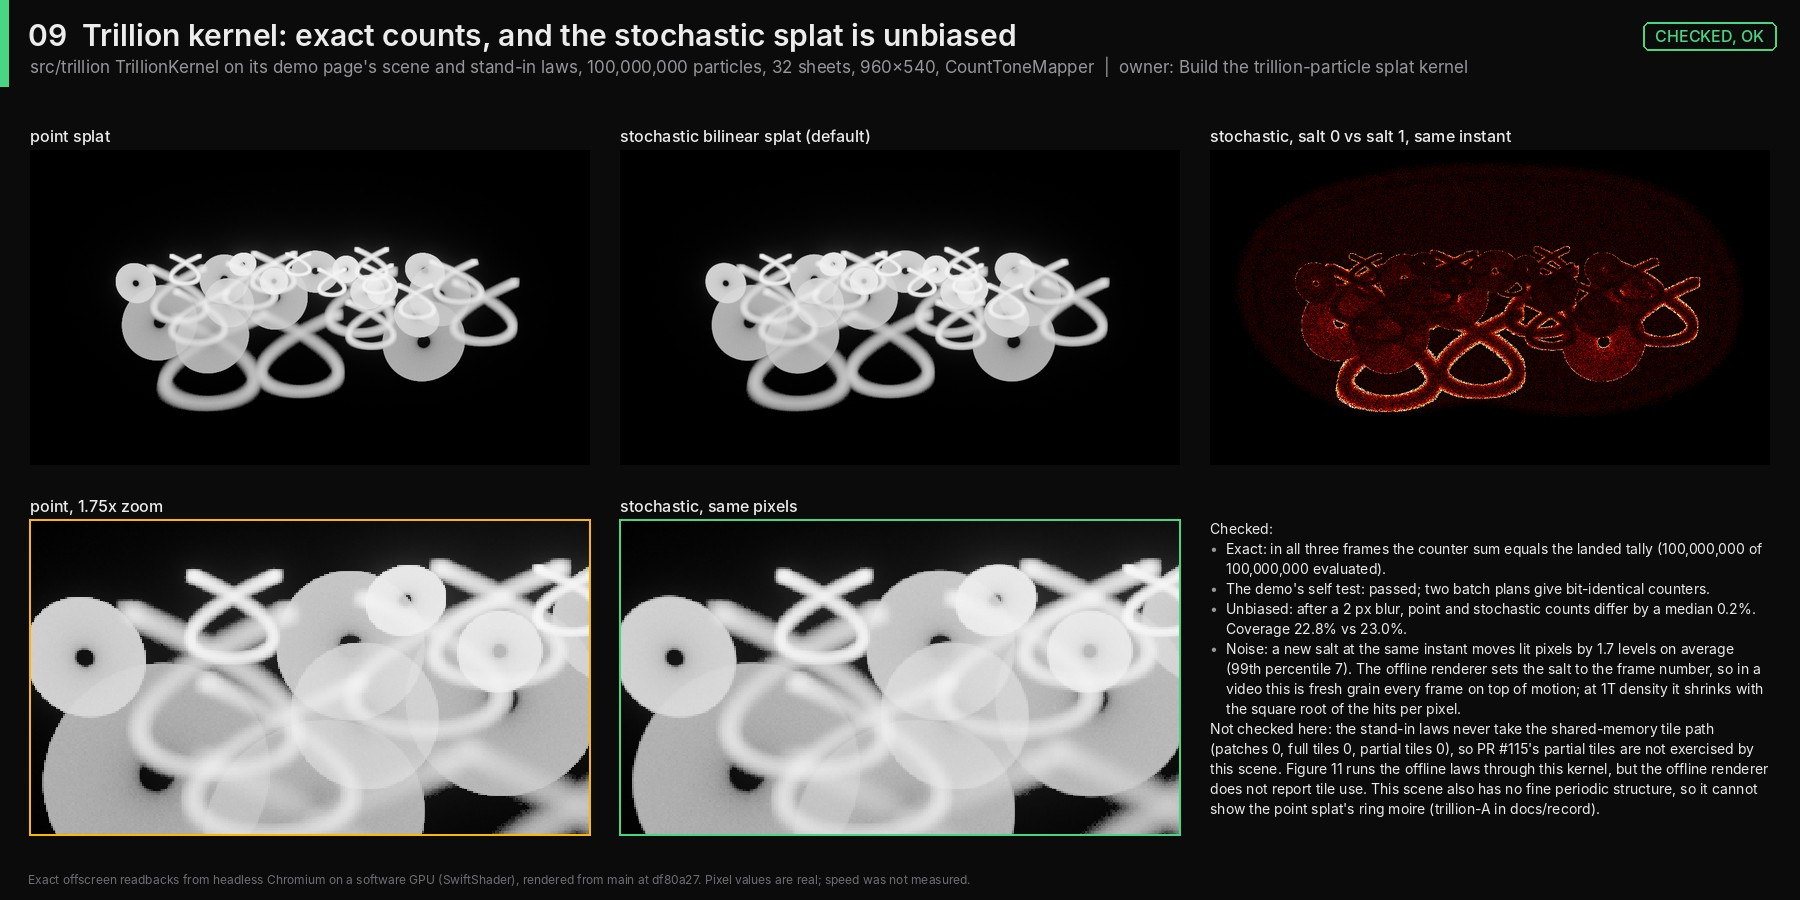
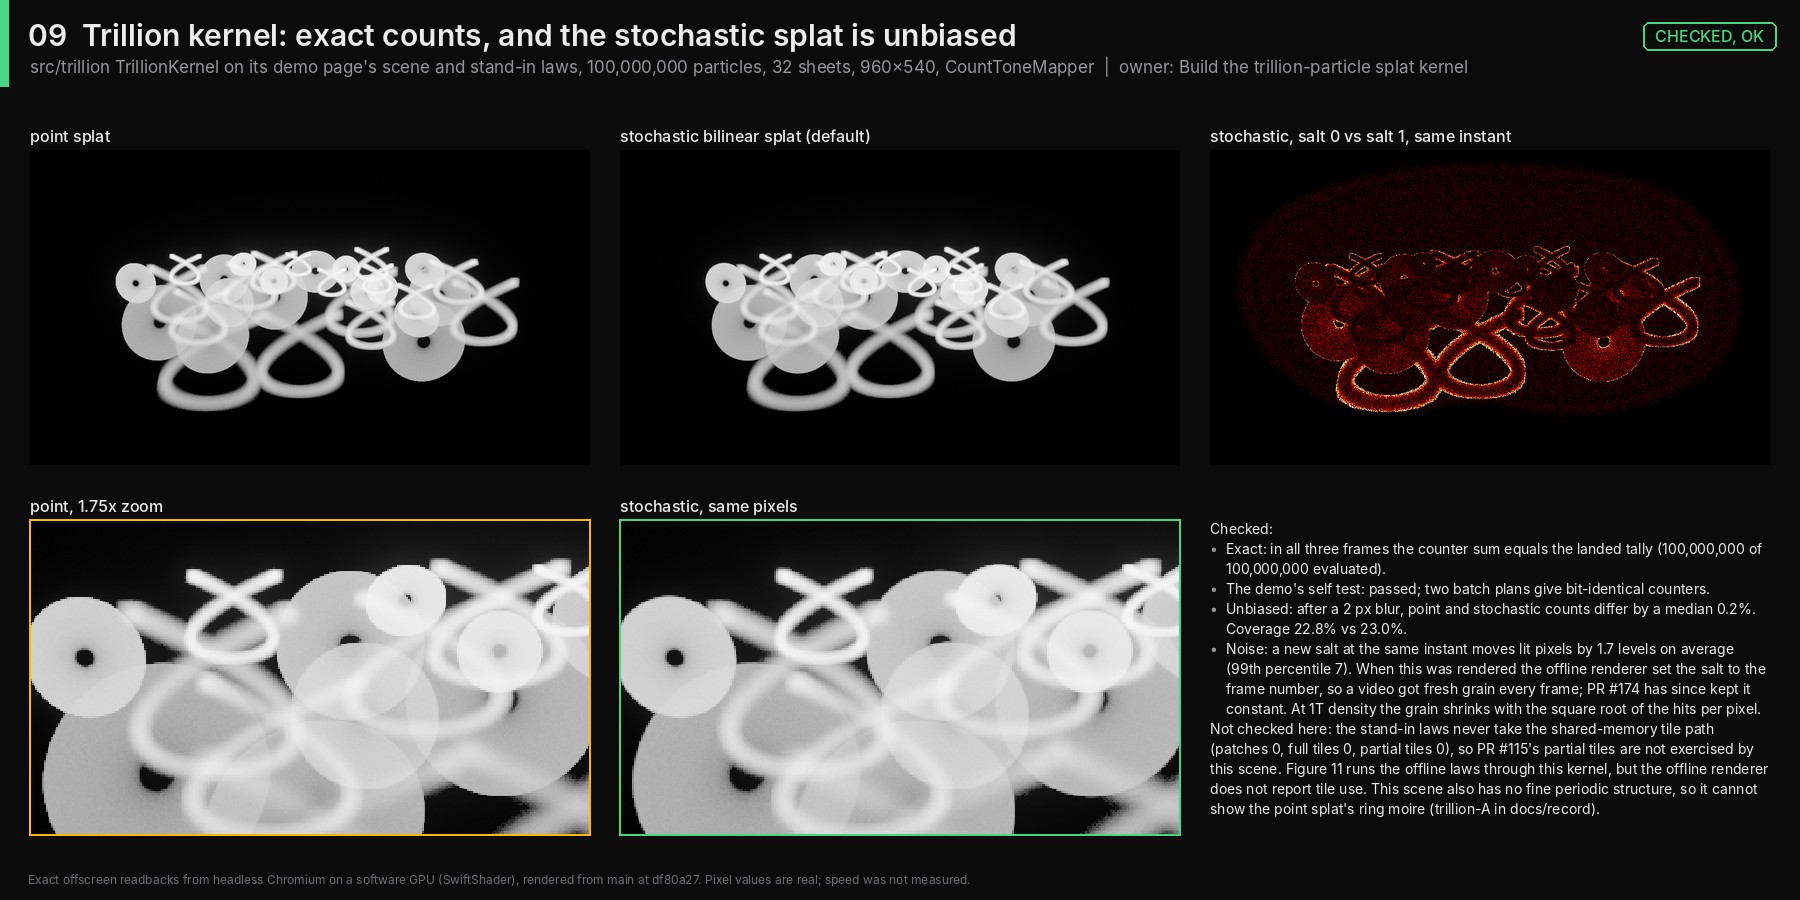
Note the trillion kernel's camera blur and constant salt (#171, #174) and Challenge's new count search (#175)
Figures 09 and 11 now say what has changed in the trillion kernel since they
were rendered; the findings README lists the merges up to 8bb79e9.

Claude-Session: https://claude.ai/code/session_011cV2cxZn34awAVPitjSW8L

Changed region(s): [[0.6844, 0.7156, 0.9956, 0.8089]]

diff --git a/qa/challenge/annotate.py b/qa/challenge/annotate.py
@@ -892,7 +892,7 @@ def fig_trillion(out: str) -> None:
         f"- Exact: in all three frames the counter sum equals the landed tally ({ms[0]['tally']['landed']:,} of {ms[0]['tally']['evaluated']:,} evaluated){'' if exact else ' (MISMATCH)'}.",
         f"- The demo's self test: {'passed' if selftest and selftest.get('ok') else 'not run' if not selftest else 'FAILED'}; two batch plans give bit-identical counters." if selftest is not None else "- Self test result not found.",
         f"- Unbiased: after a 2 px blur, point and stochastic counts differ by a median {rel * 100:.1f}%. Coverage {(cnt[0] > 0).mean() * 100:.1f}% vs {(cnt[1] > 0).mean() * 100:.1f}%.",
-        f"- Noise: a new salt at the same instant moves lit pixels by {d[lit].mean():.1f} levels on average (99th percentile {np.percentile(d, 99):.0f}). The offline renderer sets the salt to the frame number, so in a video this is fresh grain every frame on top of motion; at 1T density it shrinks with the square root of the hits per pixel.",
+        f"- Noise: a new salt at the same instant moves lit pixels by {d[lit].mean():.1f} levels on average (99th percentile {np.percentile(d, 99):.0f}). When this was rendered the offline renderer set the salt to the frame number, so a video got fresh grain every frame; PR #174 has since kept it constant. At 1T density the grain shrinks with the square root of the hits per pixel.",
         f"Not checked here: the stand-in laws never take the shared-memory tile path (patches {t.get('patches', 0)}, full tiles {t.get('tiledPatches', 0)}, partial tiles {t.get('partialPatches', 0)}), so PR #115's partial tiles are not exercised by this scene" + (". Figure 11 runs the offline laws through this kernel, but the offline renderer does not report tile use." if have("kernels-trillion-40M.gray") else ".") + " This scene also has no fine periodic structure, so it cannot show the point splat's ring moire (trillion-A in docs/record).",
     ], 560, font_=F_SMALL)
     save(f, out, "09-trillion-kernel.jpg")
@@ -940,7 +940,7 @@ def fig_kernels(out: str) -> None:
     lines += [
         "- The film is not affected: docs/perf.md makes src/offline the film's 1T kernel. But 'trillion' is not a drop-in there under flux weighting, and an A/B under flux compares every particle against a few percent of them, in look and in atomics written.",
         "- Fix (suggested): run A/Bs with weighting 'count', where both kernels draw every particle. To render the film with this kernel, give it fractional weights (add round(keep x 65,536) units per hit with dither, as the offline kernel does) instead of a keep probability.",
-        "Shutter 0 for both because the trillion kernel has no camera blur; with the film's shutter they would also differ by blur.",
+        "Shutter 0 for both: when this was rendered the trillion kernel had no camera blur (PR #174 has since added it). PRs #171 and #174 left the per-sheet keep probability as it was.",
     ]
     text_block(f, 1210, 150, lines, 560, font_=F_SMALL)
     save(f, out, "11-trillion-kernel-flux.jpg")

diff --git a/docs/qa/challenge/README.md b/docs/qa/challenge/README.md
@@ -32,7 +32,7 @@ Main moves fast, so each figure's footer names the commit it was rendered
 from. Unless noted, that is `df80a27` (the "before" captures in 02 and 04 are
 from `c42ceda`, and the real 1T frames in 05 are the RTX 2070 stills in
 `docs/record/`). Changes merged after `df80a27` that touch what a finding
-looked at, up to `1820b1d`:
+looked at, up to `8bb79e9`:
 
 - **01, 08** (`src/render`): none.
 - **02, 03** (`src/capture`): PR #144 adds an audio track to recordings and PR
@@ -48,9 +48,14 @@ looked at, up to `1820b1d`:
 - **06** (`src/challenge`): PR #139 dropped the 1/2.2 power after the log curve
   (brief V02), so Challenge renders darker. 06 was rendered again at `1820b1d`,
   after it, and compares the two (07's Challenge panel is from `1820b1d` too).
+  PR #175 changes how the count is searched on screens capped at the target
+  frame rate, not the picture.
 - **09, 11** (`src/trillion`): PR #157 keeps the partial tile inside its bins
-  on very wide frames. The per-sheet keep probability behind 11 is unchanged
-  at `1820b1d`.
+  on very wide frames. PRs #171 and #174 add camera blur to the trillion kernel,
+  keep its salt constant across frames (09's per-frame grain no longer
+  changes), and add a `trillion-strata` kernel choice, which none of these
+  figures ran. The per-sheet keep probability behind 11 is unchanged at
+  `8bb79e9`.
 
 ## Related briefs
 
